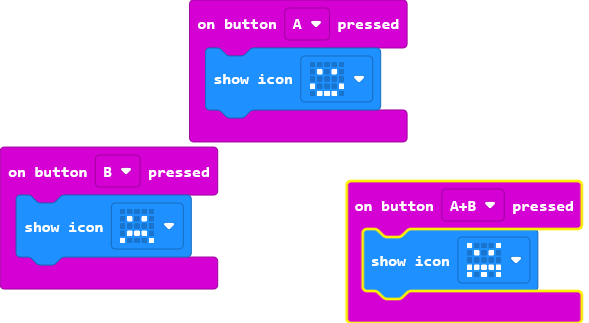
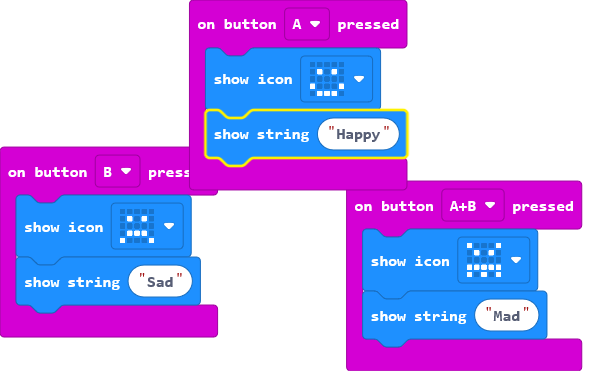
Update main.blocks, main.ts

diff --git a/main.ts b/main.ts
@@ -1,9 +1,12 @@
 input.onButtonPressed(Button.A, function () {
     basic.showIcon(IconNames.Happy)
+    basic.showString("Happy")
 })
 input.onButtonPressed(Button.AB, function () {
     basic.showIcon(IconNames.Angry)
+    basic.showString("Mad")
 })
 input.onButtonPressed(Button.B, function () {
     basic.showIcon(IconNames.Sad)
+    basic.showString("Sad")
 })
